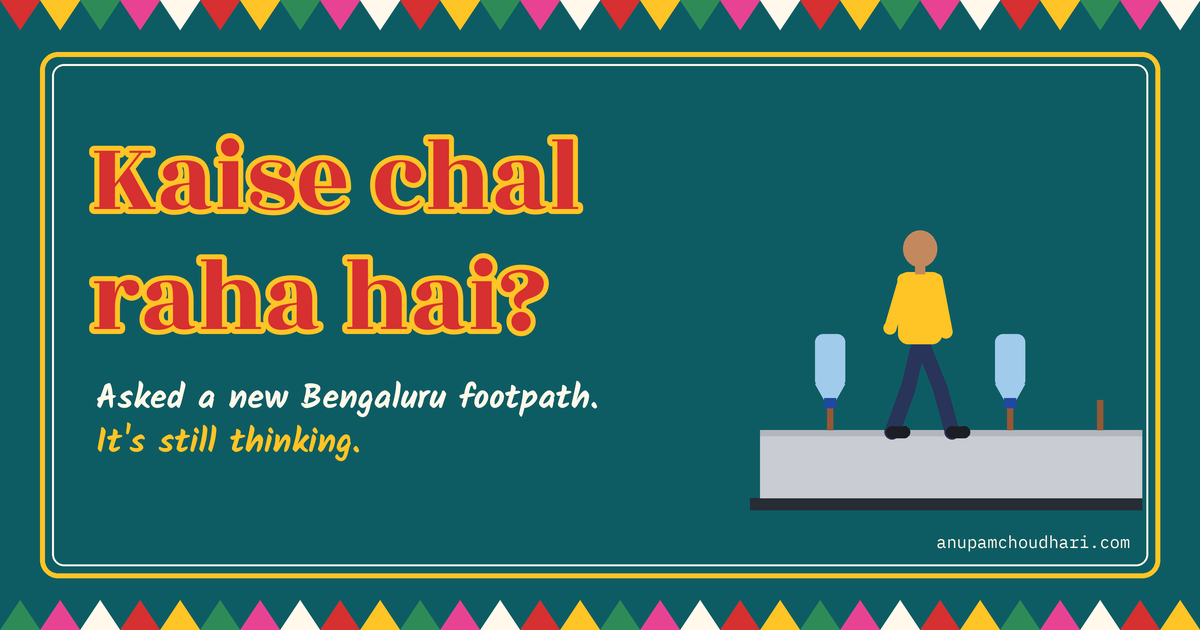
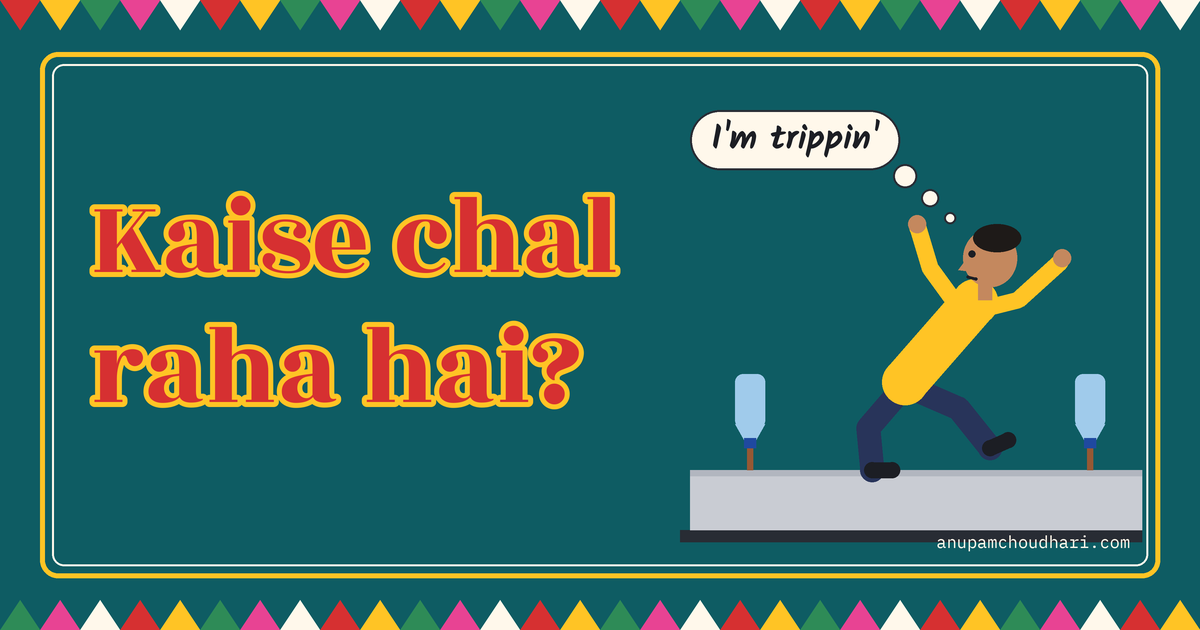
Footpath post: new cover and driver meme, IRC:103 sources
Cover now shows a pedestrian tripping over a rod while looking back.
Replaces the rods meme with a two-panel driver cartoon, points every
IRC:103 figure at the code itself, and drops a dead link.

Claude-Session: https://claude.ai/code/session_01BCKx3DXiXXAf4NpVYGNKei

Changed region(s): [[0.0617, 0.2111, 0.5242, 0.7238], [0.555, 0.3016, 0.9558, 0.8746], [0.555, 0.1508, 0.7708, 0.3016]]

diff --git a/content/mildly-annoying/kaise-chal-raha-hai.md b/content/mildly-annoying/kaise-chal-raha-hai.md
@@ -8,7 +8,7 @@ blurb: "A new footpath, three months, and a rulebook nobody walks."
 themes: []
 kind: complaint
 image: images/kaise-chal-raha-hai-cover.png
-imageAlt: "Truck-art board reading 'Kaise chal raha hai?' next to a new footpath with plastic bottles stuck on steel rods. Asked a new Bengaluru footpath. It's still thinking."
+imageAlt: "Truck-art board reading 'Kaise chal raha hai?' A man trips over a steel rod on a new footpath while looking back, thinking: I'm trippin'."
 ---
 
 <style>
@@ -19,7 +19,7 @@ imageAlt: "Truck-art board reading 'Kaise chal raha hai?' next to a new footpath
 </style>
 
 <figure class="art">
-  <img src="/images/kaise-chal-raha-hai-cover.png" alt="Truck-art board reading 'Kaise chal raha hai?' next to a new footpath with plastic bottles stuck on steel rods." width="1200" height="630">
+  <img src="/images/kaise-chal-raha-hai-cover.png" alt="Truck-art board reading Kaise chal raha hai? A man trips over a steel rod on a new footpath while looking back, thinking: I'm trippin'." width="1200" height="630">
 </figure>
 
 When the road outside started getting a new footpath, I was genuinely happy. Wide, level, new. The kind you see in a builder's brochure, right next to the swimming pool nobody will use.
@@ -33,7 +33,7 @@ Every 20 metres or so, a short steel rod started sticking out of the ground at a
 Nobody asked what they were doing there, or how dangerous they were on a footpath this crowded. Passers-by noticed, hopped over, a few tripped, dusted themselves off and moved on with their busy lives. This is Bangalore. Nobody has time to fall properly.
 
 <figure class="art">
-  <img src="/images/footpath-girna-padega.png" alt="A pedestrian looks at a row of steel rods capped with plastic bottles along a footpath and thinks: Saala, aaj phir girna padega." width="1200" height="680" loading="lazy">
+  <img src="/images/footpath-new-footpath.png" alt="Two panels. A grinning driver in sunglasses spots a new footpath: A new footpath!! Then, seeing the steel rods, he swerves away: Let me avoid it. Might puncture my tyre." width="1200" height="640" loading="lazy">
 </figure>
 
 Then the street vendors stepped in. The same vendors who already occupy half the footpath started pushing empty plastic bottles onto the rods. 👏🫡
@@ -42,7 +42,7 @@ On Indian roads there is no shortage of citizen contractors (also citizen traffi
 
 ## Month two: lights, for the trees
 
-The mystery solved itself two months in. The rods were anchors for light poles, which finally showed up. The lights came on about 15 days after that. (If a model took 75 days to return its first token, we'd call it broken. Here it's called phase two.)
+The mystery solved itself two months in. The rods were anchors for light poles, which finally showed up. The lights came on about 15 days after that. (If a model took 75 ms to return its first token, my boss would call it broken. Here, 75 days is called phase two.)
 
 The footpath was built around the existing trees, which is genuinely nice. The poles, though, came out taller than the lower branches, and nobody seems to have checked. So the lamp heads now sit inside the canopy. At night the street has a row of beautifully lit trees above a footpath that is still dark.
 
@@ -59,20 +59,20 @@ Concrete and cement tiles can easily last 30 years. Just not when the job is don
 
 ## Who writes the playbook?
 
-My first guess was that nobody does. That's wrong. The Indian Roads Congress, the body that writes road standards for the whole country, published **IRC:103, *Guidelines for Pedestrian Facilities***, in 2012. It is specific, and it reads like it was written by someone who walks.
+My first guess was that nobody does. That's wrong. The Indian Roads Congress, the body that writes road standards for the whole country, published [**IRC:103, *Guidelines for Pedestrian Facilities***](https://law.resource.org/pub/in/bis/irc/irc.gov.in.103.2012.pdf) in 2012. It is specific, and it reads like it was written by someone who walks.
 
 <div class="wide">
 
 | | IRC:103 (India) | Typical US practice | What Bengaluru got |
 |---|---|---|---|
-| Kerb height above the road | 150 mm at most ([ITDP summary of the code](https://www.itdp.in/wp-content/uploads/2014/04/11.-Footpath-Design_Handout.pdf)) | 6 inches, about 150 mm ([US federal standard drawing](https://highways.dot.gov/federal-lands/design/plan-prep/cfl/cfl-template-drawings-fp24/sp609-A.pdf)) | A new footpath in CV Raman Nagar came out between 3.5 and 5 feet high ([The News Minute](https://www.thenewsminute.com/karnataka/bbmp-builds-new-footpath-bengaluru-its-too-high-humans-165179)) |
-| Clear walking width | 1.8 m, so two wheelchairs can pass; 2.5 m in commercial areas ([ITDP](https://www.itdp.in/wp-content/uploads/2014/04/11.-Footpath-Design_Handout.pdf)) | 36 inches minimum for an accessible route under the ADA | Roughly half, once vendors and parked scooters take their share |
-| Clear height and obstructions | 2.2 m of headroom, with no poles, boxes, trees or signs in the walking zone ([Swarajya](https://swarajyamag.com/news-brief/delhi-footpaths-to-get-standardised-design-as-pwd-reviews-repair-norms)) | 80 inches of headroom under the ADA | Steel rods at ankle height, for two months |
-| Ramps at crossings | Kerb ramps for wheelchair users | No steeper than 1 in 12 ([US Access Board](https://www.access-board.gov/ada/guides/chapter-4-ramps-and-curb-ramps/)) | Sometimes. Then blocked with posts (see below) |
+| Kerb height above the road | 150 mm at most ([IRC:103](https://law.resource.org/pub/in/bis/irc/irc.gov.in.103.2012.pdf)) | 6 inches, about 150 mm ([US federal standard drawing](https://highways.dot.gov/federal-lands/design/plan-prep/cfl/cfl-template-drawings-fp24/sp609-A.pdf)) | A new footpath in CV Raman Nagar came out between 3.5 and 5 feet high ([The News Minute](https://www.thenewsminute.com/karnataka/bbmp-builds-new-footpath-bengaluru-its-too-high-humans-165179)) |
+| Clear walking width | 1.8 m, so two wheelchairs can pass; 2.5 m in commercial areas ([IRC:103](https://law.resource.org/pub/in/bis/irc/irc.gov.in.103.2012.pdf)) | 36 inches minimum for an accessible route under the ADA | Roughly half, once vendors and parked scooters take their share |
+| Clear height and obstructions | 2.2 m of headroom, with no poles, boxes, trees or signs in the walking zone ([IRC:103](https://law.resource.org/pub/in/bis/irc/irc.gov.in.103.2012.pdf)) | 80 inches of headroom under the ADA | Steel rods at ankle height, for two months |
+| Ramps at crossings | Kerb ramps no steeper than 1 in 12 ([IRC:103](https://law.resource.org/pub/in/bis/irc/irc.gov.in.103.2012.pdf)) | No steeper than 1 in 12 ([US Access Board](https://www.access-board.gov/ada/guides/chapter-4-ramps-and-curb-ramps/)) | Sometimes. Then blocked with posts (see below) |
 
 </div>
 
-Look at the first row again. India's guideline asks for the same kerb height as an American street. 150 mm is 5.9 inches. The problem isn't the standard. It's that nothing ties the standard to the thing that gets built.
+Look at the first and last rows again. India's guideline asks for the same kerb height as an American street (150 mm is 5.9 inches), and the same 1 in 12 ramp. The problem isn't the standard. It's that nothing ties the standard to the thing that gets built.
 
 When Citizen Matters asked, engineers in the city's own road department [said Bengaluru didn't have a footpath guideline](https://citizenmatters.in/?p=9492) at all. Different zones were [building to different designs](https://www.deccanherald.com/india/karnataka/bengaluru/while-bbmp-stays-busy-with-pothole-filling-footpaths-turn-into-deathtraps-948457.html), and the Deccan Herald found kerbs high enough that older people struggled to step up. Residents of the CV Raman Nagar stretch described getting onto theirs as climbing.
 
@@ -92,7 +92,7 @@ God forbid anyone builds a gentle slope for strollers. To a two-wheeler, a ramp 
 
 Bengaluru traffic police booked [12,032 cases of riding on footpaths](https://deccanherald.com/india/karnataka/bengaluru/bengaluru-crackdown-no-fix-for-footpath-riding-pedestrians-at-risk-4096222) in just the first five months of 2026. That's about 80 a day, and only the ones who got caught.
 
-So contractors put up bollards. Bollards stop strollers and wheelchairs too, so a gap gets left for wheelchair access, and riders [use that gap to ride straight through](https://fithindi.thequint.com/amp/story/news/india/bengaluru-woman-schooling-bikers-to-not-ride-on-the-footpath). Where the bollards are packed tight enough to work, they also [make the footpath hard to walk on](https://www.deccanherald.com/amp/story/india%2Fkarnataka%2Fbengaluru%2Fpavement-bollards-stump-pedestrians-2750814), and the riders go back onto the road, often against the traffic. The behaviour doesn't change. It just moves somewhere more dangerous.
+So contractors put up bollards. Bollards stop strollers and wheelchairs too, so a gap gets left for wheelchair access, and riders [use that gap to ride straight through](https://deccanchronicle.com/nation/current-affairs/290318/bengaluru-revs-up-to-take-on-footpath-riders.html). Where the bollards are packed tight enough to work, they also [make the footpath hard to walk on](https://www.deccanherald.com/amp/story/india%2Fkarnataka%2Fbengaluru%2Fpavement-bollards-stump-pedestrians-2750814), and the riders go back onto the road, often against the traffic. The behaviour doesn't change. It just moves somewhere more dangerous.
 
 ## What it costs, and what it costs not to
 
